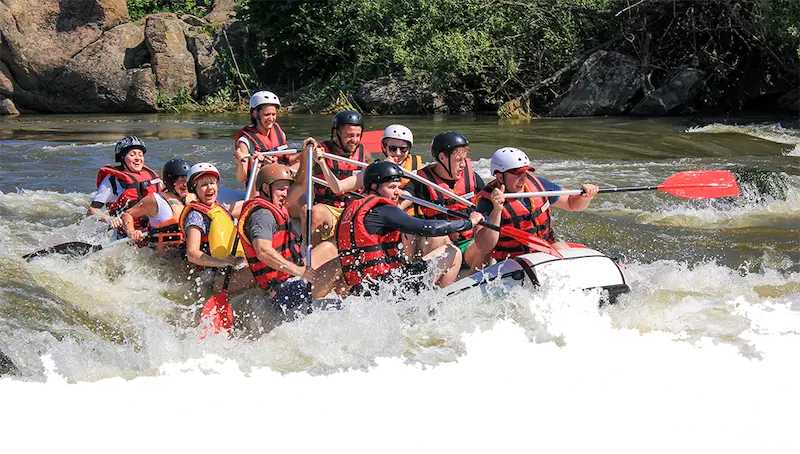
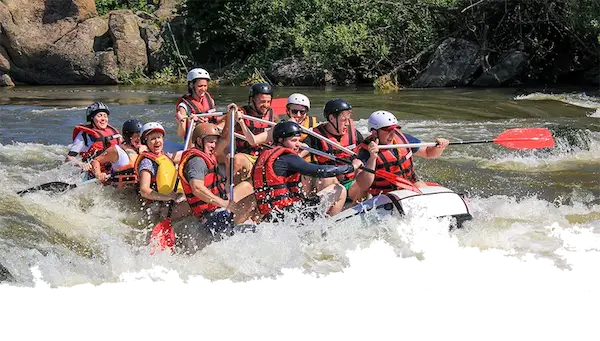
W06 changes made after grading

diff --git a/wwr/styles/rafting.css b/wwr/styles/rafting.css
@@ -368,7 +368,7 @@ iframe {
 .cta-button {
     text-decoration: none;
     font-family: "Lato", serif;
-    font-weight: 400;
+    font-weight: 700;
     font-style: normal;
     background-color: var(--accent2-color);
     color: var(--textcolor);
@@ -423,8 +423,8 @@ th, td {
     border: 1px solid #ddd;
 }
 th {
-    background-color: #4CAF50;
-    color: white;
+    background-color: var(--accent2-color);
+    color: var(--textcolor);
 }
 tr:nth-child(even) {
     background-color: #f2f2f2;
